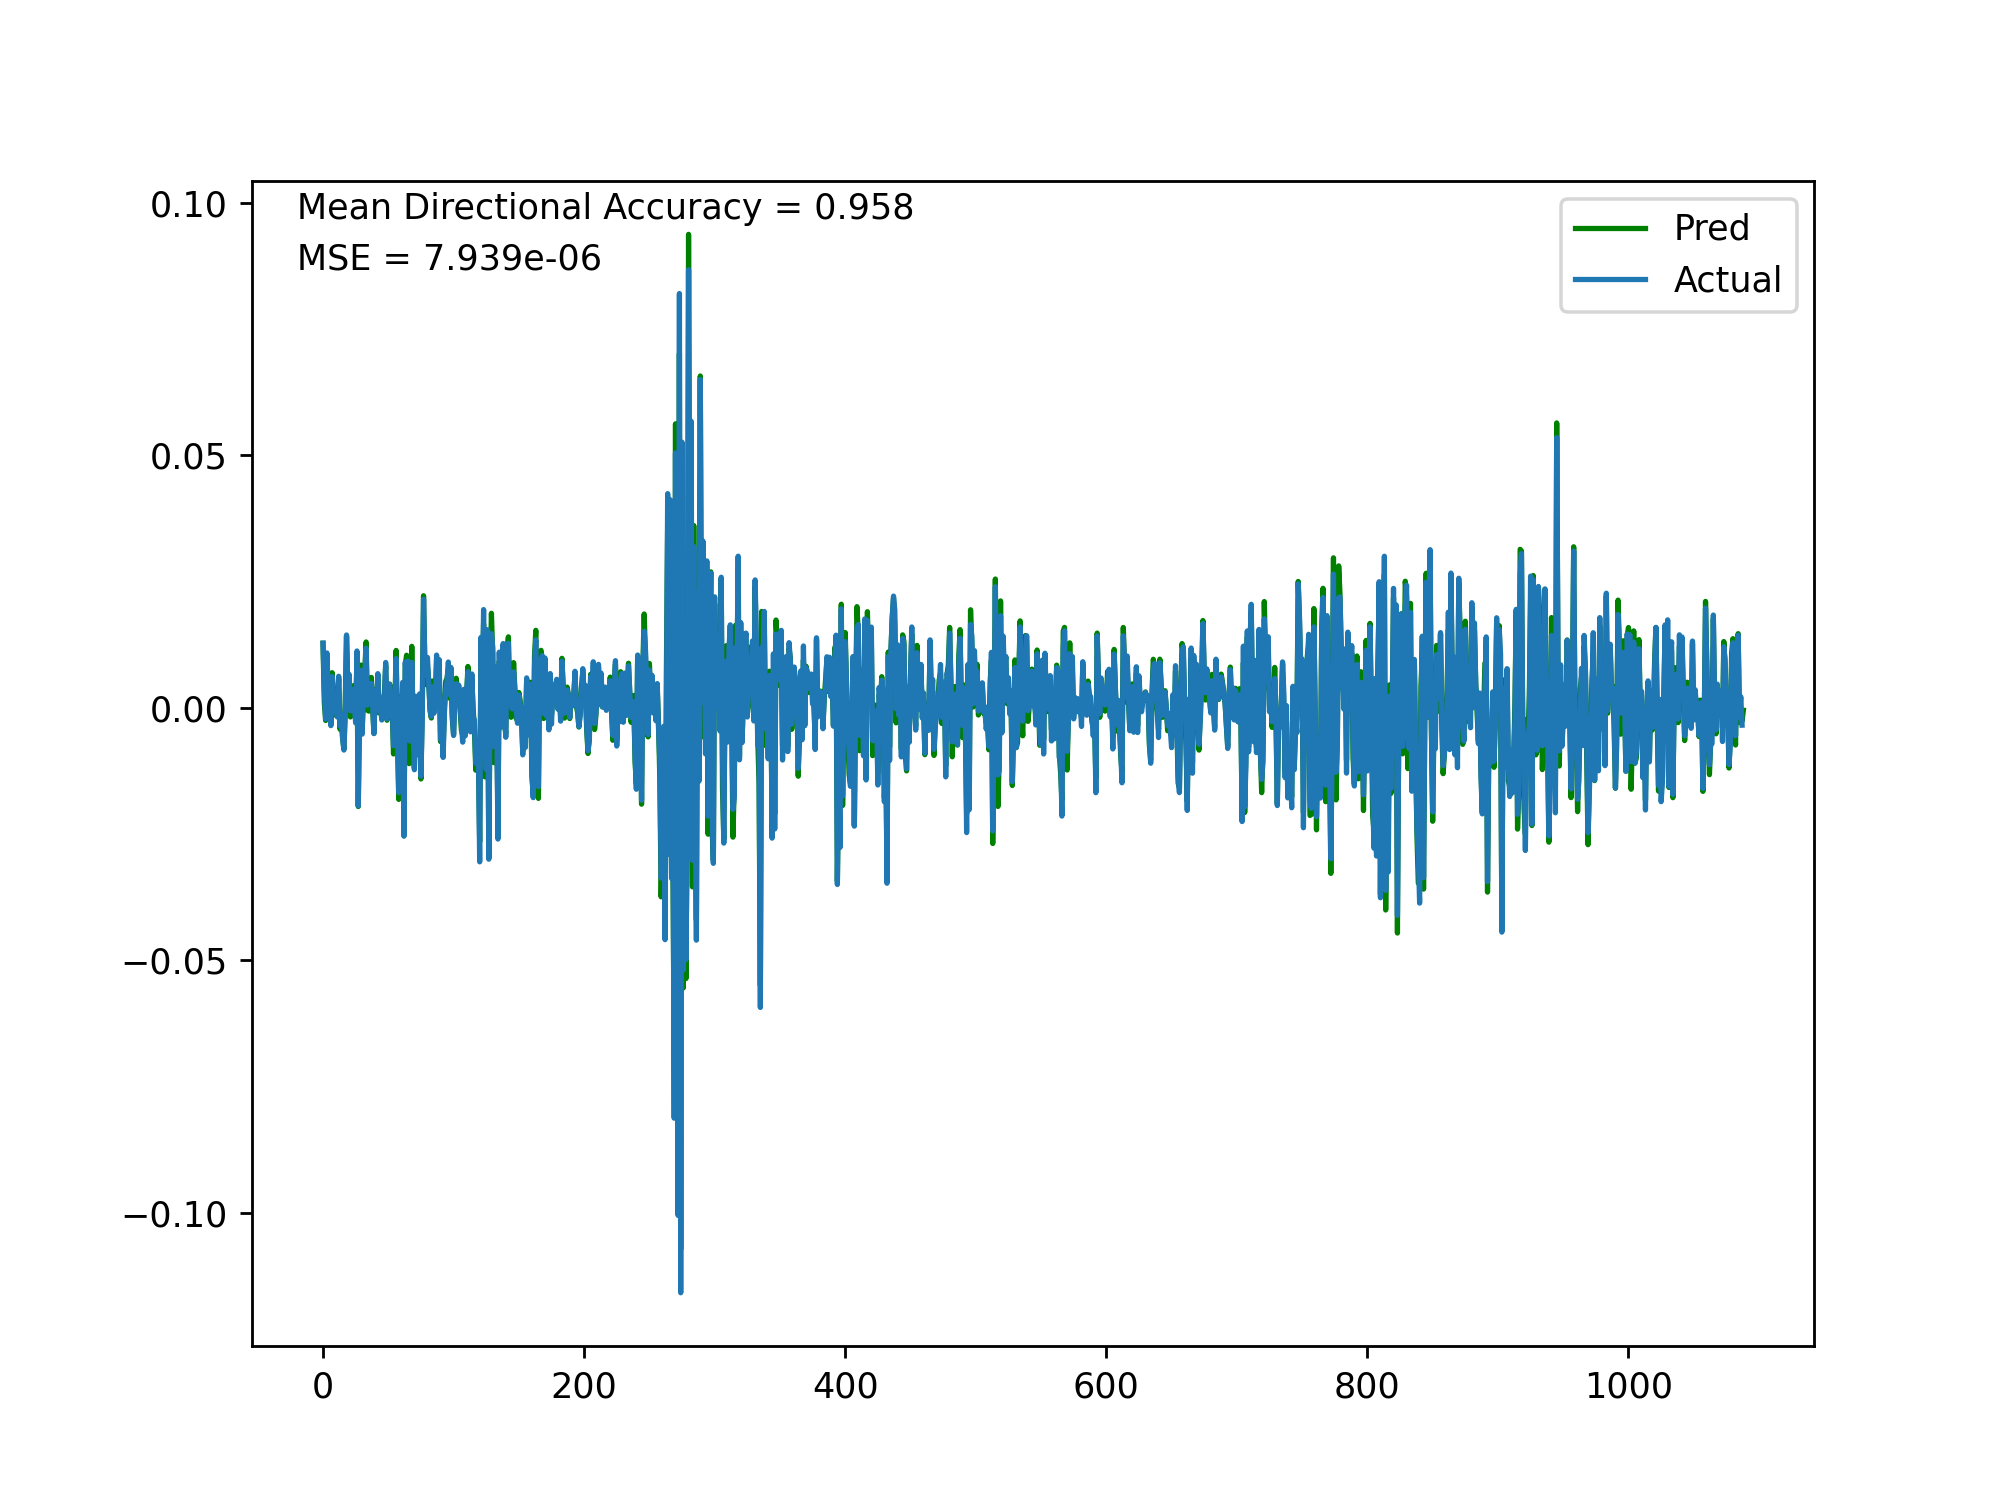
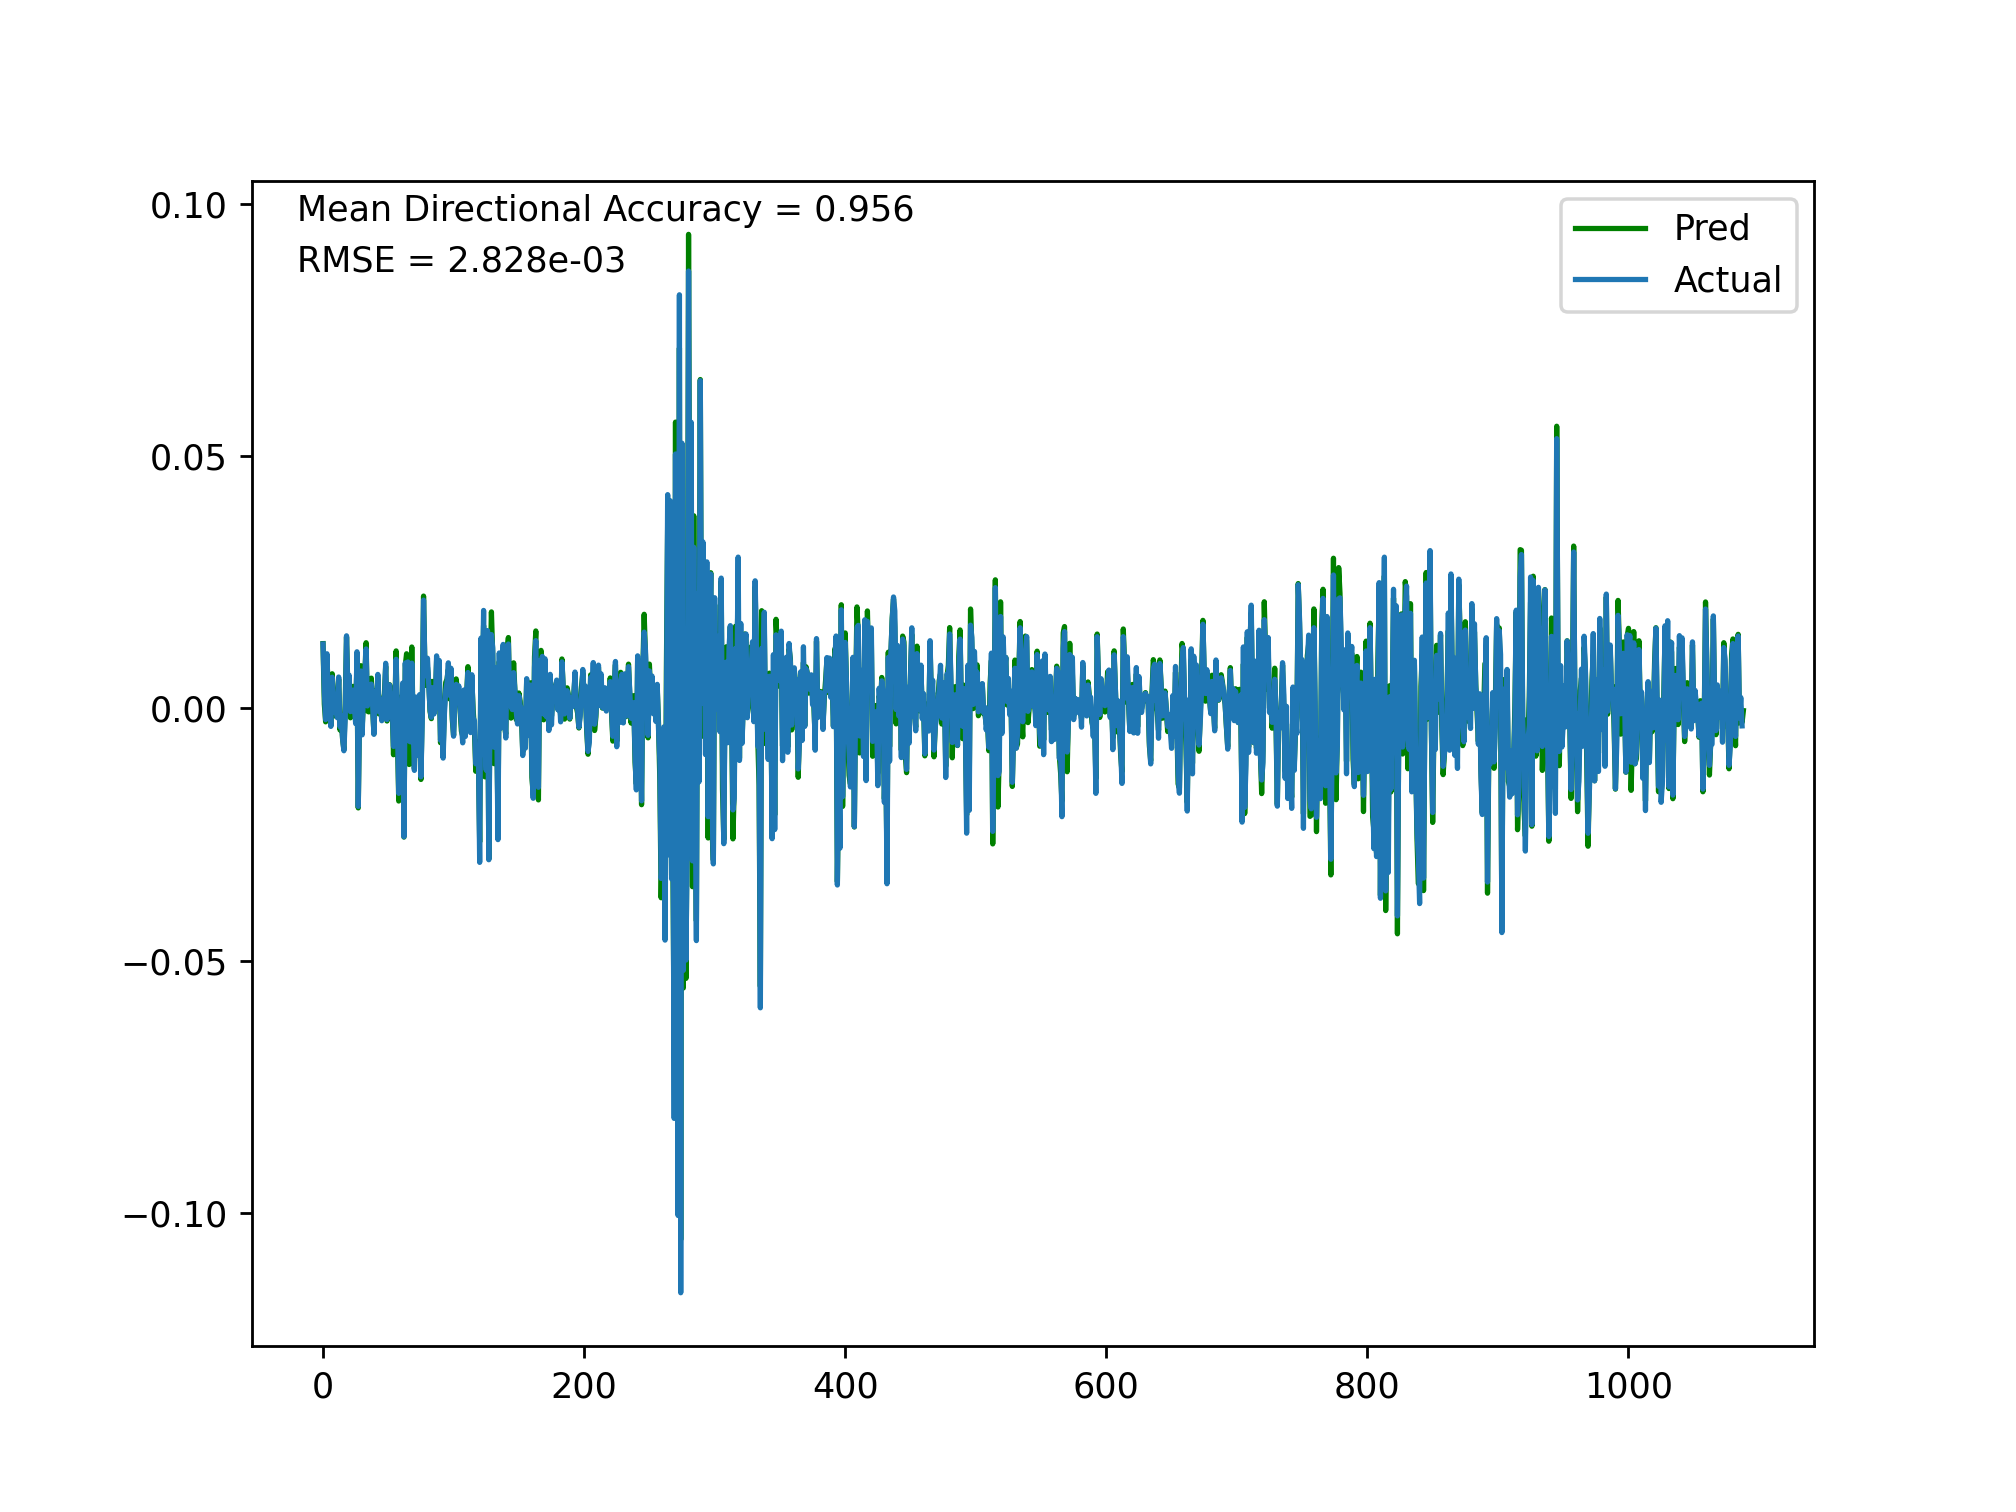
Updates

Changed region(s): [[0.1562, 0.1243, 0.375, 0.1865], [0.4062, 0.1243, 0.4688, 0.1554]]

diff --git a/MODWT-MARS.py b/MODWT-MARS.py
@@ -98,7 +98,7 @@ def mda(actual: np.ndarray, predicted: np.ndarray):
 plt.plot(np.array(D1_test['sum']), color='g')
 plt.plot(chkLbls)
 plt.annotate("Mean Directional Accuracy = {:.3f}".format(mda(chkLbls, D1_test['sum'][:-1])), (-20, max(chkLbls)+0.01))
-plt.annotate("MSE = {:.3e}".format(mean_squared_error(chkLbls, D1_test['sum'][:-1])), (-20, max(chkLbls)))
+plt.annotate("RMSE = {:.3e}".format(mean_squared_error(chkLbls, D1_test['sum'][:-1], squared=False)), (-20, max(chkLbls)))
 plt.legend(['Pred','Actual'])
 
 figure = plt.gcf()
